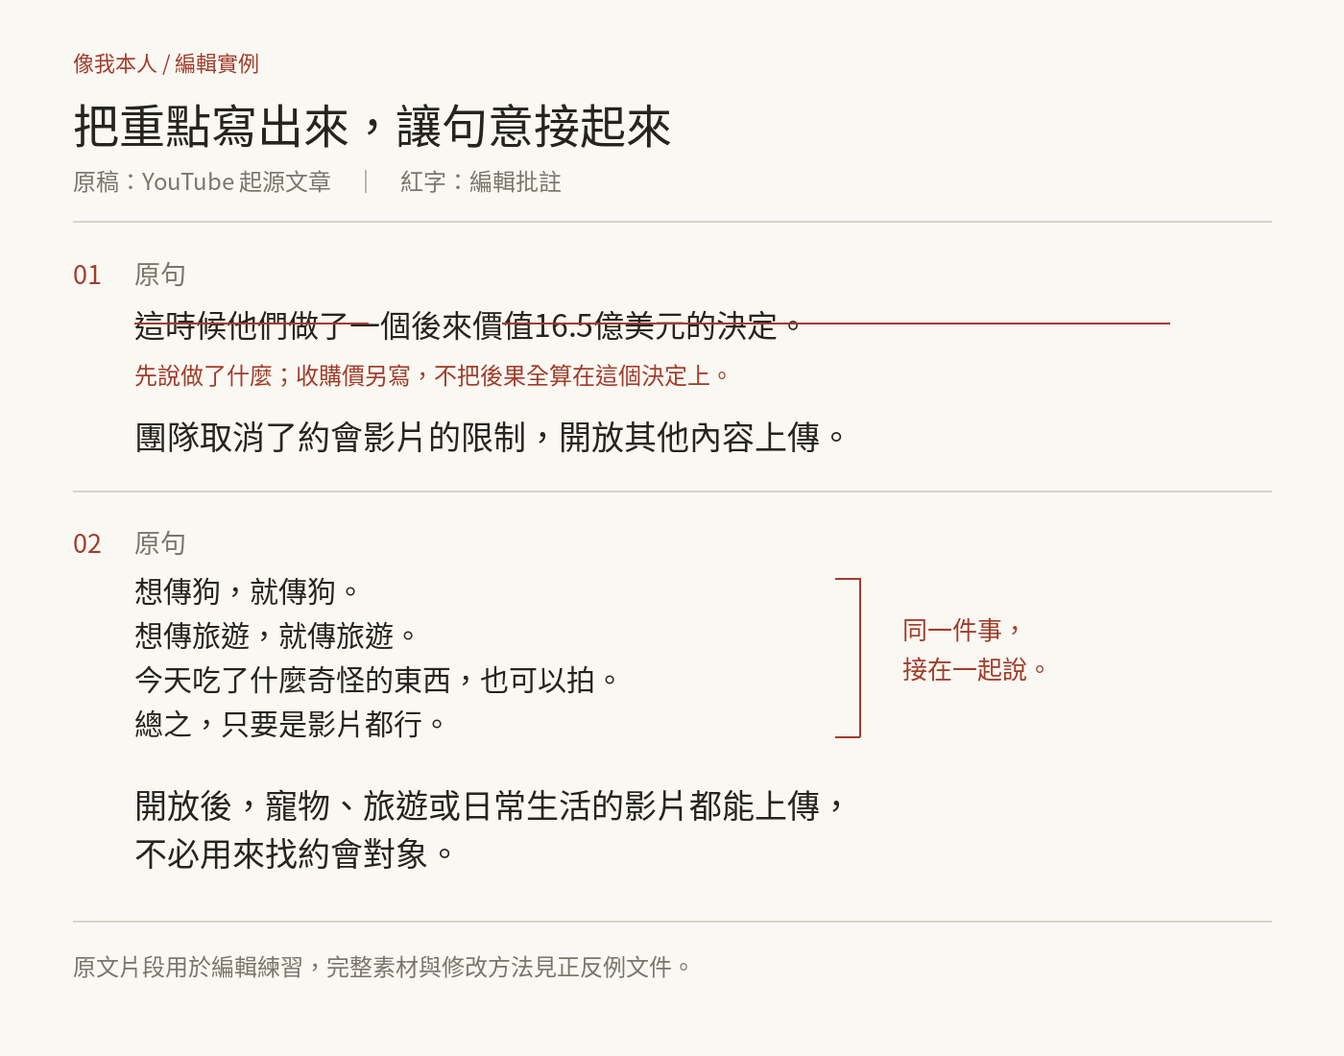
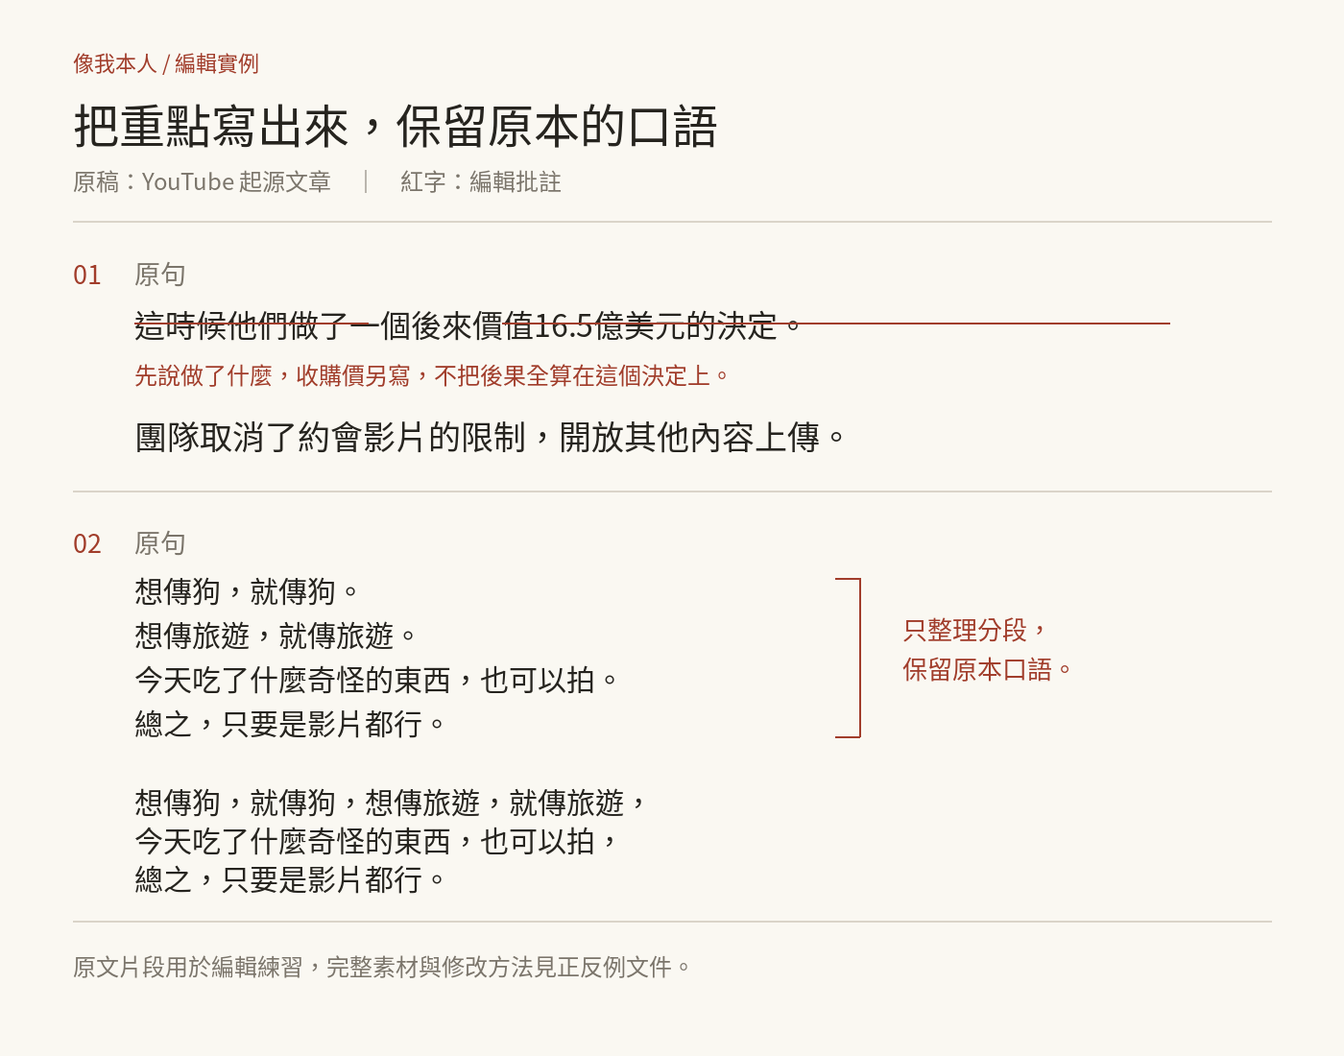
Keep colloquial examples, replace course numbers, and detail all reference sources

Changed region(s): [[0.0921, 0.7418, 0.6143, 0.8655], [0.2764, 0.0927, 0.5529, 0.1545], [0.6757, 0.5873, 0.7986, 0.6491]]

diff --git a/README.md b/README.md
@@ -10,7 +10,7 @@ Traditional Chinese writing and editing skill for Claude Code, Codex and Cursor.
 
 「這個流程能省時間，但不代表每個人都能得到相同效果，仍需視實際情況而定。」
 
-如果只是有根據的推論，寫「這個流程應該能省時間」就夠了，真有條件會改變做法，就把條件講清楚，「最多 18 人，完成付款後保留名額」比「實際安排仍需視情況而定」有用。
+如果只是有根據的推論，寫「這個流程應該能省時間」就夠了，真有條件會改變做法，就把條件講清楚，「最多 26 人，完成付款後保留名額」比「實際安排仍需視情況而定」有用。
 
 我把這些編輯習慣做成 **像我本人（LikeMe）**，技能呼叫名稱沿用 `hans-human-writing`，可以拿來改稿，也可以根據素材新寫文章。
 
@@ -54,7 +54,7 @@ YouTube 案例節錄自我提供的原稿，其餘是教學情境，每組交代
 
 這次先修兩件事：把動作寫出來，拆開產品轉向與後來的收購，想解釋 16.5 億美元的收購，還需要中間的採用與成長資料。
 
-### YouTube：例子留著，句意接起來
+### YouTube：留下口語與例子，只整理分段
 
 **改寫前**
 
@@ -68,11 +68,11 @@ YouTube 案例節錄自我提供的原稿，其餘是教學情境，每組交代
 
 **改寫後**
 
-> 開放後，寵物、旅遊或日常生活的影片都能上傳，不必用來找約會對象。
+> 想傳狗，就傳狗，想傳旅遊，就傳旅遊，今天吃了什麼奇怪的東西，也可以拍，總之，只要是影片都行。
 
-這些例子在說明允許的用途，合併後仍保有畫面，不會變成聲稱當時已有這些影片。
+原文的口語與例子可以留，只把分段和標點整理好，不必把「狗」改成「寵物」，或把「吃了什麼奇怪的東西」改成「日常生活」。
 
-### 1. 把預防性補句放回原句
+### 1. 刪掉補句，已知作用直接說
 
 **素材：** 新流程取消人工分類，還沒有計時紀錄。
 
@@ -82,13 +82,13 @@ YouTube 案例節錄自我提供的原稿，其餘是教學情境，每組交代
 
 **改寫後**
 
-> 這個流程省掉了人工分類，應該能減少整理時間。
+> 這個流程省掉了人工分類，能減少整理時間。
 
-已知的機制直接寫，推論只校準一次，「應該」也不能拿來替沒來源的數字上妝。
+省掉人工分類這個步驟，就直接說能減少整理時間，沒有計時資料就不寫節省比例，不必自動加上「應該」。
 
 ### 2. 課程公告先讓人知道怎麼參加
 
-**素材：** 12 月 13 日 09:30–12:00，台北時間；最多 18 人；NT$2,400；自備電腦；付款後保留名額；額滿可候補。
+**假設課程素材：** 8 月 22 日 14:15–16:45，台北時間；最多 26 人；NT$1,950；自備電腦；付款後保留名額；額滿可候補。
 
 **改寫前**
 
@@ -96,7 +96,7 @@ YouTube 案例節錄自我提供的原稿，其餘是教學情境，每組交代
 
 **改寫後**
 
-> 12 月 13 日 09:30–12:00（台北時間）上課，費用 NT$2,400，請自備電腦，現場最多 18 人，完成付款後保留名額，額滿可登記候補。
+> 8 月 22 日 14:15–16:45（台北時間）上課，費用 NT$1,950，請自備電腦，現場最多 26 人，完成付款後保留名額，額滿可登記候補。
 
 這組是從原稿加上素材重寫，日期、價格與規則都來自上面的素材，沒有新增課程成效或熱銷故事。
 
@@ -163,14 +163,27 @@ npx skills add hansai-art/likeme --skill hans-human-writing
 
 ## 怎麼知道它有沒有用？
 
-目前累積 14 個任務：7 個改稿、6 個應保留的片段、1 個新寫文章，題目包含價格與 URL 保護、客服承諾、物理術語、自然敘事與標點、長文資訊保留，以及混在素材裡的無關指令。
+目前累積 16 個任務：8 個改稿、7 個應保留的片段、1 個新寫文章，題目包含價格與 URL 保護、客服承諾、物理術語、自然敘事與標點、長文資訊保留，以及混在素材裡的無關指令。
 
 [測試紀錄](evals/results.md) 公開題目、實際輸出與人工判讀，重點是文章是否清楚、資料是否完整、作者立場有沒有被磨平，看到同類問題，就用具體失敗案例修規則，再試一次。
 
 ## 參考與授權
 
-這個技能從我們的文章案例與改稿回饋出發，也參考 [speak-human-tw](https://github.com/Raymondhou0917/speak-human-tw)、維基百科與其他中文、英文編輯技能，來源與採用方式列在 [設計筆記](docs/design-notes.md)。
+這個技能從我們的文章案例與改稿回饋出發，以下資料用來補漏與比較，來源、參考方向與採用方式分開列出。
+
+| 參考來源 | 參考的邏輯 | 在 LikeMe 裡怎麼用 |
+| --- | --- | --- |
+| [中文維基百科：AI 生成文的特徵](https://zh.wikipedia.org/zh-tw/Wikipedia:AI%E7%94%9F%E6%88%90%E6%96%87%E7%9A%84%E7%89%B9%E5%BE%B5) | 繁中案例中的細節流失、重要性膨脹、表面分析與模糊歸屬 | 先看句子有沒有內容，保留具體細節與有效出處，刪掉只有感嘆和預告的句子 |
+| [朱宥勳：對「AI腔」厭煩了嗎？分析 AI 生成文字的經典句型](https://www.youtube.com/watch?v=9uuX6cb81C8) | 否定平行結構能做定義與區分，濫用會疲勞，工整句型也容易掩蓋推論問題 | 正常對比可以留，檢查區分是否有意思、判斷是否有根據，不把句型當禁詞 |
+| [Wikipedia: Signs of AI writing](https://en.wikipedia.org/wiki/Wikipedia:Signs_of_AI_writing) | 過度解釋重要性、模糊權威、表面分析與格式痕跡 | 按資訊功能編輯，不移植英文禁詞或標點規則 |
+| [SEO 研究院：什麼是 AI 味？](https://blog.dns.com.tw/2026/05/ai-writing.html) | 公式化開場，以及 AI 起草後由作者提供觀點的分工 | 直接開場，用本人提供的立場與理由寫作，避免 AI 補造經歷與感想 |
+| [MrGeDiao/shuorenhua](https://github.com/MrGeDiao/shuorenhua) | 保護片段、依情境決定改動範圍，分開測待改文字與應保留文字 | 保住數字、條件、承諾與 URL，依任務決定改多少，也試跑原本自然、不該改的句子 |
+| [blader/humanizer](https://github.com/blader/humanizer) | 作者聲音、段落作用與刪掉編輯旁白 | 依本人樣本校準用字和節奏，直接寫事情，不加「我會看」等旁白 |
+| [hardikpandya/stop-slop](https://github.com/hardikpandya/stop-slop) | 重複節奏、戲劇碎句、空泛評語與多餘修飾 | 刪無效句子，只修分段時保留原本口語，不把每篇文章壓成同一種摘要 |
+| [Raymond Hou/speak-human-tw](https://github.com/Raymondhou0917/speak-human-tw) | 繁中場景、資訊保護、評測與圖文教學的呈現 | 參考公開說明的方法，用我們的 YouTube 案例、課程素材與原創配圖重新設計 |
+
+閱讀範圍與來源版本見 [設計筆記](docs/design-notes.md)，朱宥勳影片這次依中文維基的引用與使用者摘要整理，尚未取得完整逐字稿，SEO 研究院文章讀取的是搜尋索引正文，未採用文中的成效統計或偵測分數。
 
 像我本人使用 [MIT License](LICENSE)，歡迎拿去用、調整成自己的寫作習慣，或提出具體改稿案例，來源與設計差異整理在 [設計筆記](docs/design-notes.md)。
 
-作者：林思翰（Hans） · 技能版本：2.2.0 · 2026-10-02
+作者：林思翰（Hans） · 技能版本：2.3.0 · 2026-10-02

diff --git a/docs/design-notes.md b/docs/design-notes.md
@@ -14,8 +14,9 @@
 | --- | --- |
 | 刪除與改寫 | 沒有作用就直接刪，有必要資訊才改寫，不為每句廢話安排替代句 |
 | 觀察旁白 | 直接寫團隊的選擇，省掉「我會看」與「這篇文章交代的是」 |
-| 預防性補句 | 推論程度放回原句，必要限制改成行動條件 |
+| 預防性補句 | 已知作用直接說，需要表達不確定的判斷才校準，必要限制寫成行動條件 |
 | 作者聲音 | 保留立場、選擇與理由，依本人樣本與當次回饋判斷用字、節奏與標點 |
+| 口語例子 | 修分段時保留原本用字與畫面，不把狗、吃了什麼奇怪的東西換成分類名稱 |
 | 標點 | 林思翰的相連句意用逗號，說完才加句號，範例為「雨停了，我還坐在騎樓下，不想回去。」 |
 | 對比句 | 檢查它區分的問題是否真實，判斷是否有根據，有作用的正常對比保留 |
 | 新寫與改稿 | 支援從素材完成文章，以及直接改稿、微調、診斷、對比 |
@@ -43,6 +44,17 @@
 
 維基百科頁面是社群對寫作痕跡的觀察，這裡用作編輯參考，LikeMe 的驗收看資訊、原意與閱讀效果，沒有用句型命中數推算「AI 含量」。
 
+### 閱讀版本
+
+研究日期為 2026-10-02，以下列出本次讀取的技能原文版本，方便對照後續改版：
+
+- [shuorenhua：f4d9b6a](https://github.com/MrGeDiao/shuorenhua/tree/f4d9b6aa4052fc2ec12321aca347255cc8dfc913)，讀取 `SKILL.md`，參考資訊保真、改動範圍與正常文字保留。
+- [humanizer：d4b8127](https://github.com/blader/humanizer/tree/d4b81278e6604e237bf32f0f7ce5c217aee94269)，讀取 `SKILL.md`，參考作者樣本、段落作用與編輯旁白。
+- [stop-slop：8da1f03](https://github.com/hardikpandya/stop-slop/tree/8da1f030185bdfe8471220585162991eaeb970e9)，讀取 `SKILL.md`，參考節奏與刪除多餘修飾，未採用固定分數門檻。
+- [speak-human-tw：eeb527d](https://github.com/Raymondhou0917/speak-human-tw/tree/eeb527d273905bc3c38d479f8dab8522114a157a)，參考繁中場景、資訊保護、評測與公開教學呈現。
+
+LikeMe 的規則和案例依林思翰的回饋編寫，沒有移植上述專案的詞表、例句或圖像，研究中採用的是編輯思路。
+
 ## 怎麼整合參考資料？
 
 「不是價格太高，是我們一直沒說清楚包含哪些服務」能區分兩種問題，可以留，若整篇連續把各種事情都改成「不是 X，是 Y」，先看 X 是否真有人主張，再看 Y 有沒有根據，最後才調整節奏。
@@ -51,9 +63,9 @@
 
 ## 怎麼驗證？
 
-技能格式驗證確認名稱、描述與 YAML 格式，初次寫作驗證以兩個新執行緒完成 12 題，執行者只收到技能與原始任務，課程數字更新後，R01 另用新執行緒執行；標點更新後，P02 也另行執行，其他題目保留 2.0.0 初次輸出，2.1.0 的重跑範圍為 P02，2.2.0 另用新執行緒完成 R07、P06，核對無效句刪除與自然文字保留，主編再人工核對。
+技能格式驗證確認名稱、描述與 YAML 格式，初次寫作驗證以兩個新執行緒完成 12 題，執行者只收到技能與原始任務，課程數字更新後，R01 另用新執行緒執行；標點更新後，P02 也另行執行，其他題目保留 2.0.0 初次輸出，2.1.0 的重跑範圍為 P02，2.3.0 另用新執行緒完成 R07、P06，核對無效句刪除與自然文字保留，2.3.0 重跑 R01，新增 P07、R08，核對口語用字、課程資訊與已知作用的表達，主編再人工核對。
 
-[題目](../evals/prompts.json)、[輸出](../evals/outputs.json) 與 [結果](../evals/results.md) 分開公開，方便重跑，目前累積 14 個任務，沒有對照組或其他技能比較，後續要增加完整長文與多輪改稿。
+[題目](../evals/prompts.json)、[輸出](../evals/outputs.json) 與 [結果](../evals/results.md) 分開公開，方便重跑，目前累積 16 個任務，沒有對照組或其他技能比較，後續要增加完整長文與多輪改稿。
 
 ## 教學圖與後續更新
 
@@ -61,4 +73,4 @@
 
 收到失敗案例後，記錄任務、素材、實際輸出與具體問題，再修規則，新增一題失敗案例，也保留一題相似但不該改的文字，避免修好一邊、誤改另一邊。
 
-版本 2.2.0 · 2026-10-02
+版本 2.3.0 · 2026-10-02

diff --git a/evals/results.md b/evals/results.md
@@ -1,14 +1,14 @@
 # 寫作試跑與案例更新紀錄
 
-日期：2026-10-02。環境：Codex 工作階段。2.0.0 初次試跑由兩個新執行緒各完成六題。課程案例更新後，R01 由另一個新執行緒重新執行，核對 12 月 13 日 09:30–12:00、NT$2,400、18 人上限與完整連結。敘事標點更新後，P02 也由新執行緒重新執行。執行者只收到技能與原始任務，沒有預期答案。下列結果與 outputs.json 採用 R01、P02 的新輸出，其餘題目沿用初次輸出，均未手工改寫成稿。完成後由主編人工判讀。
+日期：2026-10-02。環境：Codex 工作階段。2.0.0 初次試跑由兩個新執行緒各完成六題。課程案例更新後，R01 由另一個新執行緒重新執行，核對 8 月 22 日 14:15–16:45、NT$1,950、26 人上限與完整連結。敘事標點更新後，P02 也由新執行緒重新執行。執行者只收到技能與原始任務，沒有預期答案。下列結果與 outputs.json 採用 R01、P02 的新輸出，其餘題目沿用初次輸出，均未手工改寫成稿。完成後由主編人工判讀。
 
-**結果：累積 14 題均完成下表列出的要求，6 題保留題均逐字保留。**
+**結果：累積 16 題完成下表列出的要求，6 題逐字保留，P07 僅整理標點與分段。**
 
-這是累積任務紀錄，2.1.0 重跑 P02，2.2.0 另用新執行緒完成 R07、P06，其他題目保留原執行版本，未做全套重測或技能間比較。
+這是累積任務紀錄，2.1.0 重跑 P02，2.2.0 另用新執行緒完成 R07、P06，2.3.0 重跑課程公告 R01，新增口語保留 P07 與已知作用 R08，其他題目保留原執行版本，未做全套重測或技能間比較。
 
 | 題目 | 檢查重點 | 本次觀察 | 判讀 |
 | --- | --- | --- | --- |
-| R01 課程公告 | 日期、時段、時區、18 人上限、NT$2,400、設備、付款、候補、完整 URL | 全部保留；刪掉時代開場與旅程修辭 | 完成 |
+| R01 課程公告 | 日期、時段、時區、26 人上限、NT$1,950、設備、付款、候補、完整 URL | 全部保留；刪掉時代開場與旅程修辭 | 完成 |
 | R02 工具說明 | 已知功能、沒有計時、修掉預防性補句 | 功能清楚；以「應該」表達時間推論，沒有補造百分比 | 完成 |
 | R03 客服回覆 | 缺件、查庫存、明天 3 點回覆、尚未確定寄出時間 | 保留道歉與具體下一步，沒有新增寄出承諾 | 完成 |
 | R04 產品觀點 | 6 位中 4 位、測試入口、尚無後續數據、作者立場、約 300 字 | 區分訪談與後續結果，加入可觀察的使用訊號，約 300 字 | 完成 |
@@ -21,6 +21,8 @@
 | P05 必要提醒 | 備份、選取範圍 | 原文逐字保留 | 完成 |
 | R07 同事回覆 | 暫停、查重複、明天 10:00 回覆、確認後開放、先不重傳、完整 URL | 刪旁白、抽象感想與補句，資訊完整 | 完成 |
 | P06 作者口吻 | 原本自然的完整句子與作者立場 | 原文逐字保留 | 完成 |
+| P07 口語與例子 | 貓、下班路上看到的東西、奇怪零食、原本用字 | 只整理標點與分段，移除標點後逐字相同 | 完成 |
+| R08 已知作用 | 依表單欄位分類、省掉人工分類、沒有計時 | 直接說能減少整理時間，沒補數字或「應該」 | 完成 |
 | D01 從素材新寫 | 假設、3 人、每週約 5 信、未上線、兩週試行、人工核對、約 500 字 | 有假設標記、計時與錯誤觀察；沒有虛構成效，約 500 字 | 完成 |
 
 ## 原始輸出在哪裡？

diff --git a/hans-human-writing/references/editing-examples.md b/hans-human-writing/references/editing-examples.md
@@ -28,7 +28,7 @@
 
 做法：讓行動和結果自己產生反差。「好笑」若是作者重要的判斷可以留，這裡沒有增加理解就省掉。
 
-### 3. 合併被拆成口號的句意
+### 3. 留下口語與例子，只整理分段
 
 原文：
 > 想傳狗，就傳狗。
@@ -40,9 +40,9 @@
 > 總之，只要是影片都行。
 
 改成：
-> 開放後，寵物、旅遊或日常生活的影片都能上傳，不必用來找約會對象。
+> 想傳狗，就傳狗，想傳旅遊，就傳旅遊，今天吃了什麼奇怪的東西，也可以拍，總之，只要是影片都行。
 
-做法：例子是說明允許的用途，不能寫成已有這些人上傳。三個例子接同一個結論，合併後資訊仍完整。
+做法：原文的狗、旅遊、吃了什麼奇怪的東西都有畫面，只整理標點與分段，保留用字。不把口語換成「寵物、旅遊或日常生活」的分類式摘要，也不用再補一句約會用途。
 
 ### 4. 描述產品變更，別把它縮成文字遊戲
 
@@ -105,7 +105,7 @@
 
 ## 其他情境
 
-### A. 確定程度放回原句
+### A. 已知作用直接說，不自動加「應該」
 
 素材：整理流程取消人工分類，還沒計時。
 
@@ -113,19 +113,19 @@
 > 這個流程能大幅提升效率，但不代表每個人都能得到相同效果，仍需視實際情況而定。
 
 改成：
-> 這個流程省掉了人工分類，應該能減少整理時間。
+> 這個流程省掉了人工分類，能減少整理時間。
 
-做法：寫出已知機制，用一個程度詞表達推論。如果「節省 80%」沒有來源，就去查或刪掉數字，不改成「應該節省 80%」。
+做法：素材已交代省掉人工分類，可以直接說能減少整理時間，沒有計時資料就不補節省比例，程度詞只用在需要表達不確定的判斷。
 
 ### B. 限制寫成報名規則
 
-素材：12 月 13 日 09:30–12:00（台北時間）、NT$2,400、自備電腦、最多 18 人、付款後保留名額、額滿可候補。
+素材：8 月 22 日 14:15–16:45（台北時間）、NT$1,950、自備電腦、最多 26 人、付款後保留名額、額滿可候補。
 
 原句：
 > 歡迎報名，但不代表收到確認信就一定能參加，仍需完成付款，且名額有限。
 
 改成：
-> 12 月 13 日 09:30–12:00（台北時間）上課，費用 NT$2,400，請自備電腦，現場最多 18 人，完成付款後保留名額，額滿可登記候補。
+> 8 月 22 日 14:15–16:45（台北時間）上課，費用 NT$1,950，請自備電腦，現場最多 26 人，完成付款後保留名額，額滿可登記候補。
 
 做法：這是結合素材重寫公告，不能只刪補句就把付款規則一起刪掉。日期與價格來自素材，不是為了寫得具體而捏造。
 

diff --git a/docs/guide.md b/docs/guide.md
@@ -48,8 +48,8 @@ npx skills add hansai-art/likeme --skill hans-human-writing
 請使用 hans-human-writing 改稿。
 用途：課程公告。
 讀者：已經用過 ChatGPT，想練習工作應用的人。
-素材：12 月 13 日 09:30–12:00（台北時間）、最多 18 人、
-NT$2,400、自備電腦、付款後保留名額、額滿可候補。
+素材：8 月 22 日 14:15–16:45（台北時間）、最多 26 人、
+NT$1,950、自備電腦、付款後保留名額、額滿可候補。
 原文：〔貼上原稿〕
 報名連結：〔貼上實際連結〕
 直接交可發布版本，價格、時間、規則與連結全部保留。
@@ -110,7 +110,7 @@ NT$2,400、自備電腦、付款後保留名額、額滿可候補。
 這張圖用原稿兩段示範，紅字是編輯決定，改稿見圖下方與 [完整 8 組案例](../hans-human-writing/references/editing-examples.md)。
 
 1. 原句先宣布「價值 16.5 億美元的決定」，讀者還不知道團隊做了什麼，先改成取消約會限制、開放其他影片。
-2. 「狗、旅遊、吃東西」在解釋同一件事，把相連句意接起來，例子仍留著。
+2. 「想傳狗，就傳狗」「吃了什麼奇怪的東西」保留原本用字，只整理分段，不改成「寵物、旅遊或日常生活」。
 3. 收購價另有來源與事件時間，要解釋轉向如何帶來成長，就補中間資料。
 
 貼這段需求，請技能挑最影響閱讀的地方：

diff --git a/hans-human-writing/references/youtube-case.md b/hans-human-writing/references/youtube-case.md
@@ -14,7 +14,7 @@
 | --- | --- | --- |
 | 「這時候他們做了一個後來價值16.5億美元的決定。」 | 先預告重要性，也把收購價歸到單一決定。 | 直接寫用途限制改了什麼，另交代後續事件。 |
 | 「團隊後來做的事情非常簡單。」 | 沒有交代動作。 | 接上「取消約會影片限制，開放其他內容」。 |
-| 「想傳狗，就傳狗。想傳旅遊，就傳旅遊。」 | 舉例有畫面，但大量列舉會拖長簡單意思。 | 留下確有用的一兩例，或直接交代不限用途。 |
+| 「想傳狗，就傳狗。想傳旅遊，就傳旅遊。」 | 口語與例子自然，單行分段較多。 | 保留原本用字，只接回完整句子，不換成分類式摘要。 |
 | 「簡單到有點荒謬」「快到現在看都很離譜」 | 評價多於說明。 | 用時間、使用情況與產品變更支持反差。 |
 | 「伺服器也沒有某天晚上被雷打到，隔天長出神奇演算法。」 | 額外玩笑佔篇幅，也暗示技術差異已被排除。 | 整句刪除，不再用另一句旁白重講已知變更。 |
 | 「我以前一直沒太注意」「我反而很喜歡」 | 自我發現句反覆出現，後面沒有新內容。 | 直接寫團隊的選擇，沒有新內容就刪除。 |

diff --git a/docs/visual-notes.md b/docs/visual-notes.md
@@ -33,6 +33,6 @@ no certification stamp, no grid background, no presentation cards.
 
 ## 教學圖怎麼讀
 
-YouTube 圖的第一組把預告改成團隊的動作，也指出收購價需要另談，第二組用旁註說明相連句意可以接起來，完整例子見 [正反例文件](../hans-human-writing/references/editing-examples.md)。
+YouTube 圖的第一組把預告改成團隊的動作，也指出收購價需要另談，第二組保留原本口語與例子，只整理分段，完整例子見 [正反例文件](../hans-human-writing/references/editing-examples.md)。
 
 安裝圖只畫實際檔案，不模擬產品介面，三種工具的目錄、安裝指令與確認步驟見 [圖文教學](guide.md)。

diff --git a/hans-human-writing/references/protection-and-scenes.md b/hans-human-writing/references/protection-and-scenes.md
@@ -6,7 +6,7 @@
 
 | 類別 | 要保住的內容 | 常見漂移 |
 | --- | --- | --- |
-| 數字 | 數值、單位、幣別、約數、上下限、比較基準 | 「最多 18 人」變「18 人起」；「約 3 小時」變成確定 3 小時 |
+| 數字 | 數值、單位、幣別、約數、上下限、比較基準 | 「最多 26 人」變「26 人起」；「約 3 小時」變成確定 3 小時 |
 | 時間 | 日期、截止時間、時區、先後次序 | 「申請截止」變「付款截止」 |
 | 行動 | 讀者做什麼、在哪裡做、完成後得到什麼 | 刪掉付款或候補步驟 |
 | 條件 | 適用對象、限制、例外、否定 | 「不含錄影」變成「可回看」 |

diff --git a/evals/README.md b/evals/README.md
@@ -2,7 +2,7 @@
 
 [原始題目](prompts.json) · [實際輸出](outputs.json) · [人工判讀](results.md)
 
-累積 14 題：7 題改稿、6 題保留、1 題新寫。測試題目都是教學情境，網址 `example.org` 也是測試用。
+累積 16 題：8 題改稿、7 題保留、1 題新寫。測試題目都是教學情境，網址 `example.org` 也是測試用。
 
 ## 重跑方式
 
